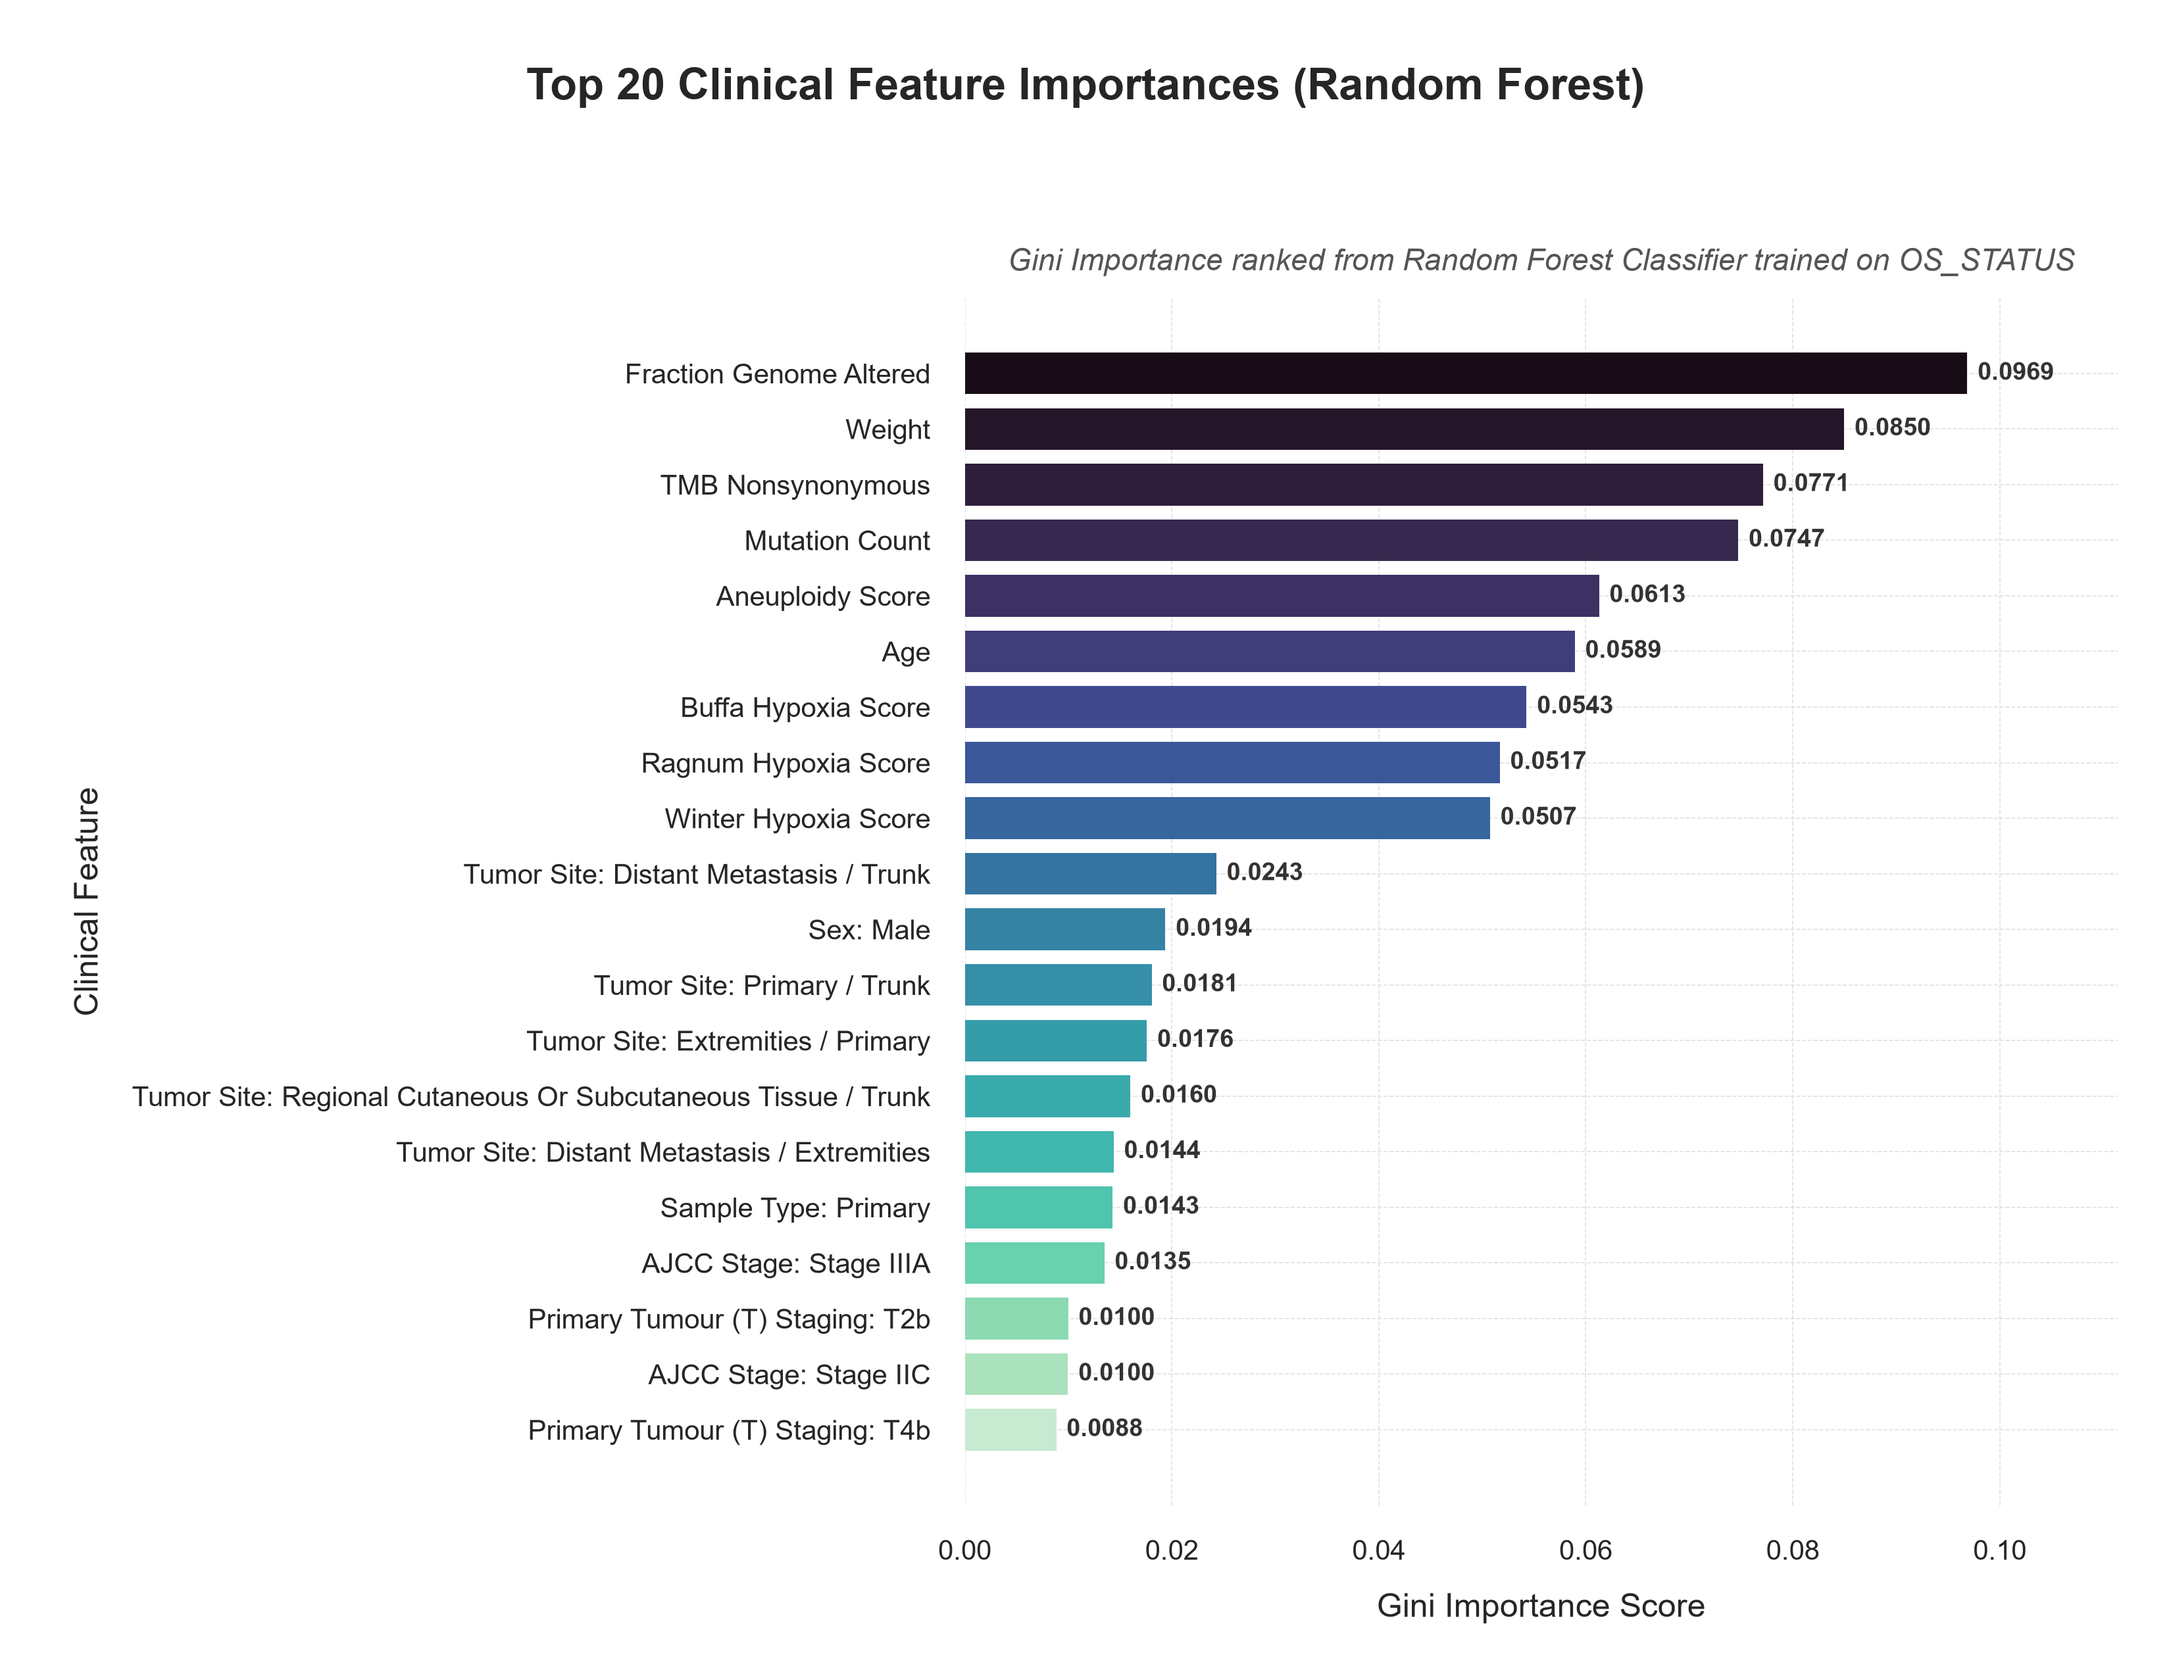
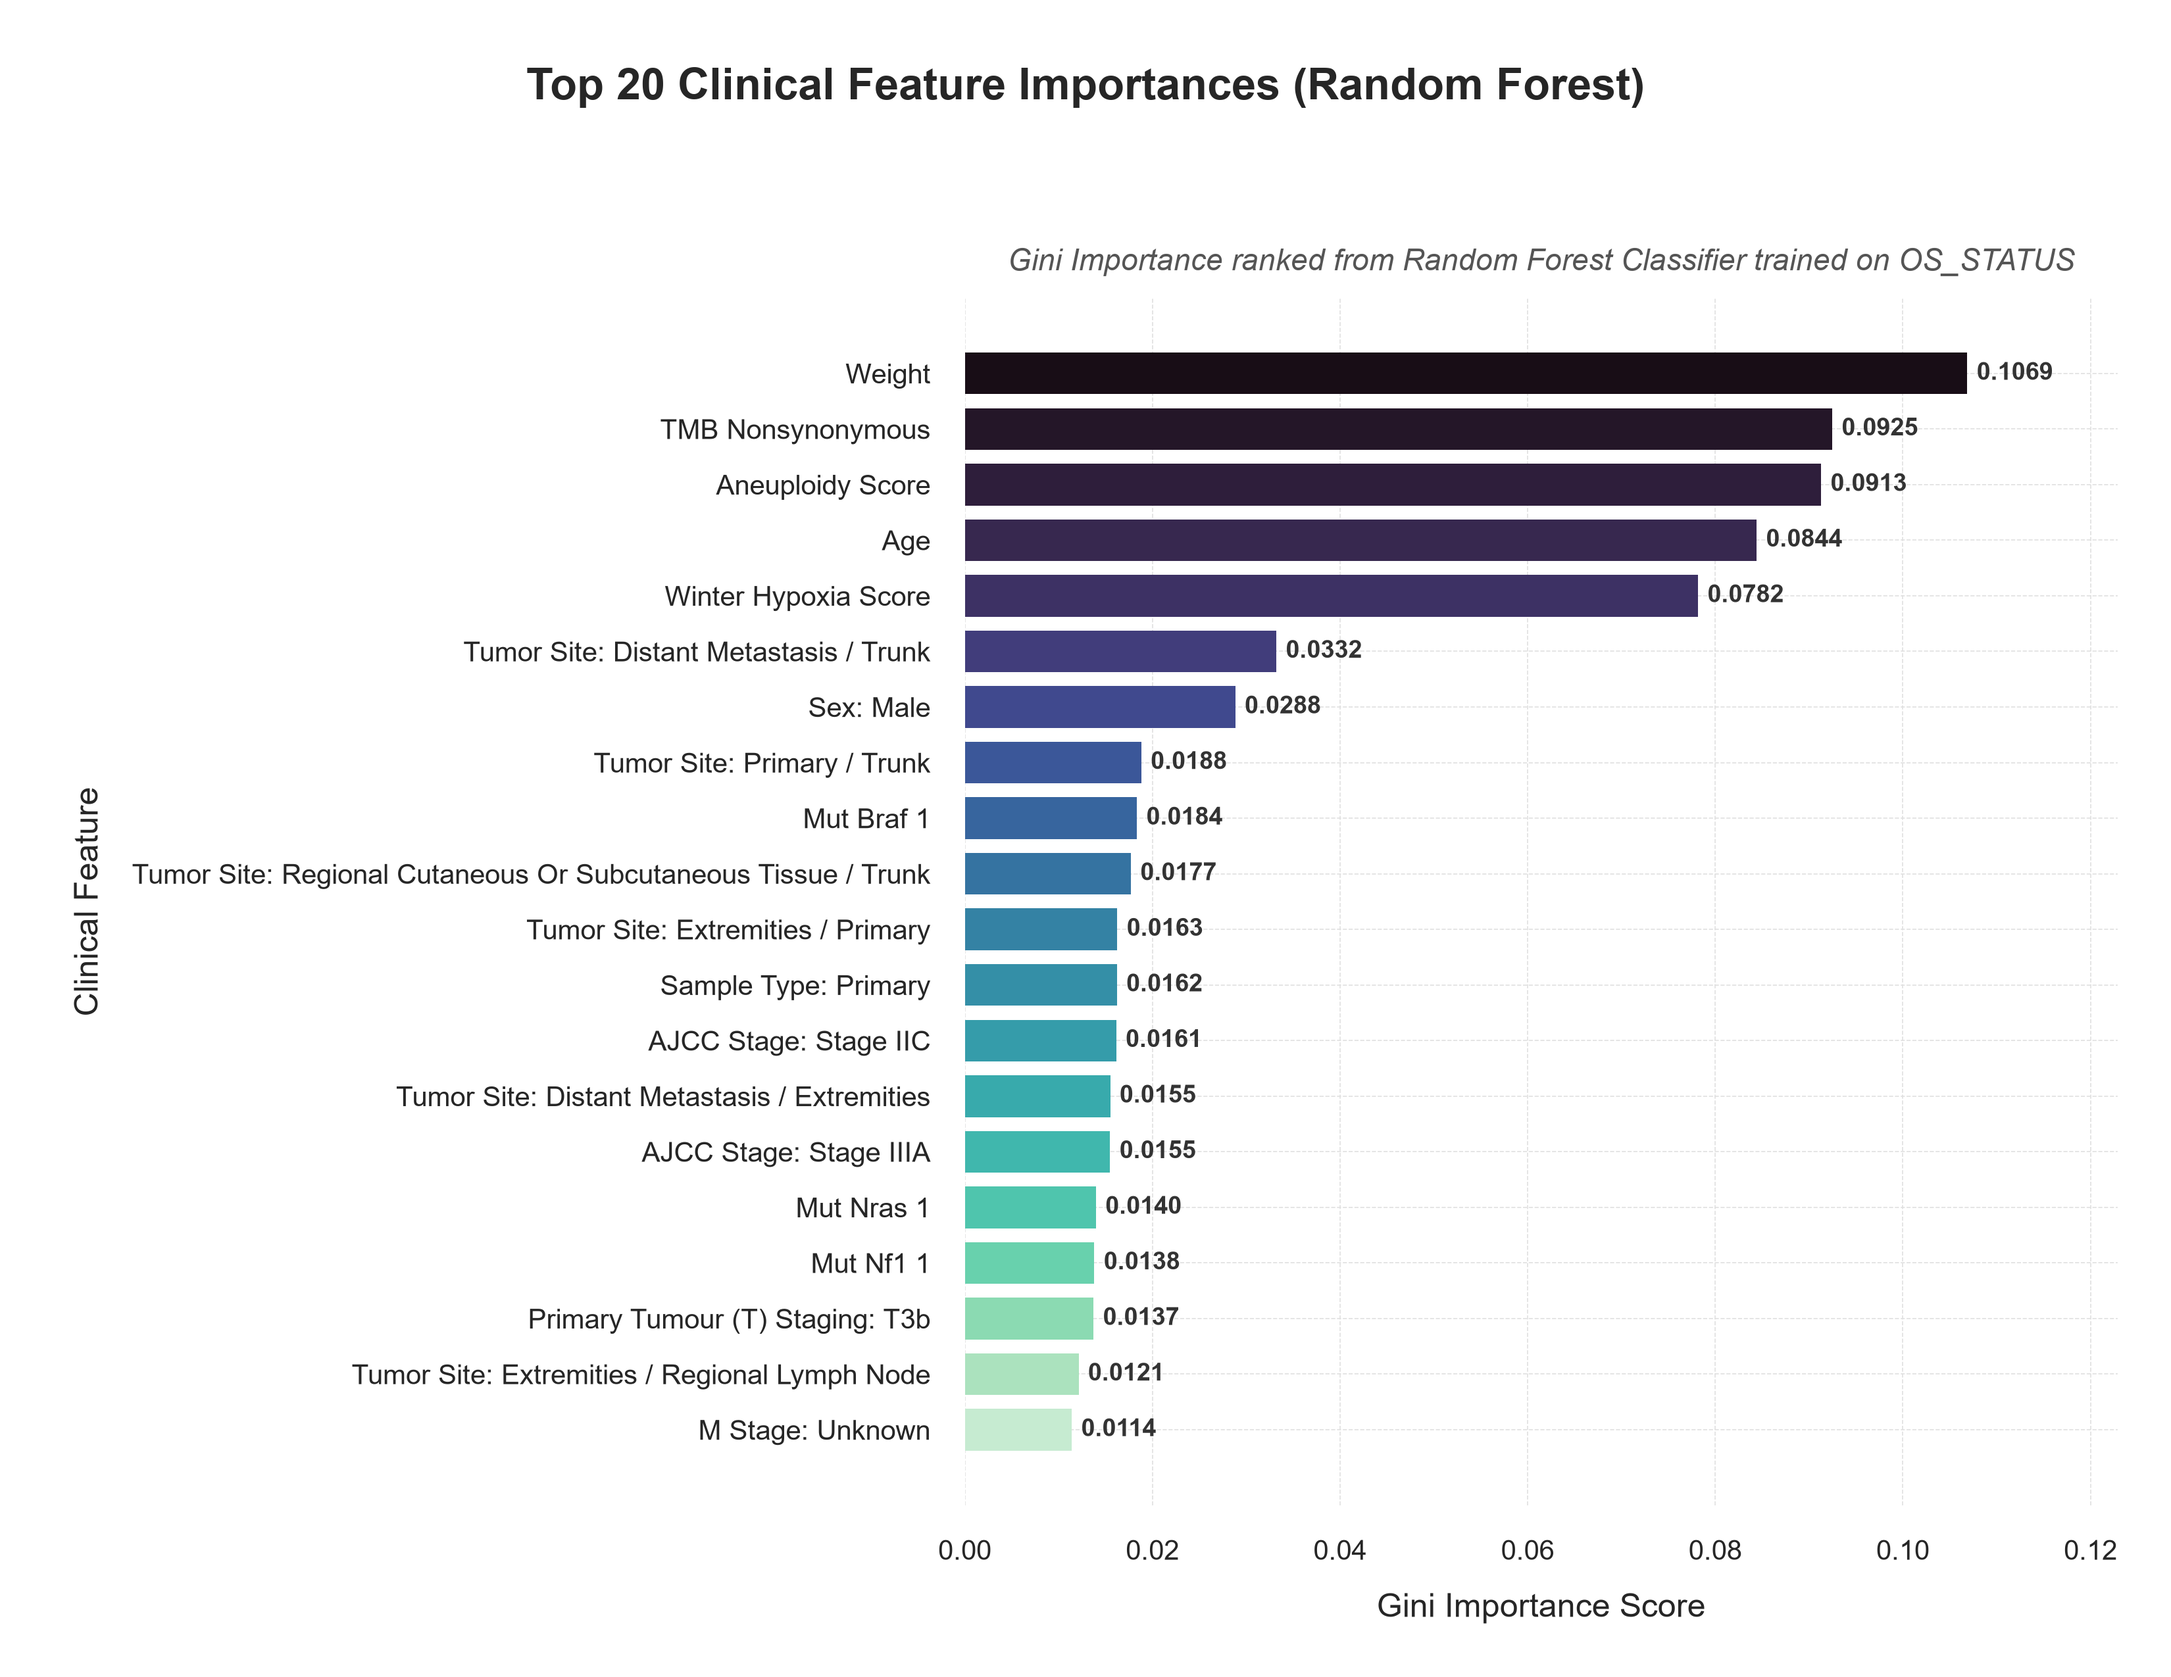
fix(q1-response-predictor): update clinical feature selection script and rerun Gini rankings
- Filter out missing OS_STATUS targets before fitting Random Forest classifier
- Route generated plot outputs to plots/clinical subdomain
- Regenerate clinical_feature_selection_results.md and updated Gini importance plots

diff --git a/q1-response-predictor/scripts/clinical_analysis/run_clinical_feature_selection.py b/q1-response-predictor/scripts/clinical_analysis/run_clinical_feature_selection.py
@@ -20,7 +20,7 @@ DATA_DIR = BASE_DIR / "data"
 CLINICAL_FILE = DATA_DIR / "processed/skcm_tcga_pan_can_atlas_2018/clin_cleaned.csv"
 REPORTS_DIR = BASE_DIR / "reports"
 REPORTS_DIR.mkdir(exist_ok=True, parents=True)
-PLOTS_DIR = BASE_DIR / "plots"
+PLOTS_DIR = BASE_DIR / "plots" / "clinical"
 PLOTS_DIR.mkdir(exist_ok=True, parents=True)
 OUTPUT_FILE = REPORTS_DIR / "clinical_feature_selection_results.md"
 
@@ -36,6 +36,9 @@ def main():
     # Load data
     df = pd.read_csv(CLINICAL_FILE)
     print(f"Loaded clinical data with shape: {df.shape}")
+    df = df.dropna(subset=['OS_STATUS'])
+    print(f"Filtered clinical data (non-null OS_STATUS) shape: {df.shape}")
+
 
     # 1. Define targets and identifiers to exclude
     target_cols = ['OS_STATUS', 'OS_MONTHS', 'PFS_STATUS', 'PFS_MONTHS', 'DSS_STATUS', 'DSS_MONTHS']
@@ -392,12 +395,12 @@ def main():
         f.write("## Method 1: Random Forest Classifier Importance\n")
         f.write("A Random Forest classifier was trained to predict **Overall Survival status (OS_STATUS)** using all clinical variables. Features are ranked by their Gini importance.\n\n")
         f.write("### Feature Importance Visualization\n")
-        f.write("![Random Forest Classifier Feature Importance](../plots/clinical_feature_importance.png)\n\n")
+        f.write("![Random Forest Classifier Feature Importance](../plots/clinical/clinical_feature_importance.png)\n\n")
 
         f.write("## Method 2: Cox Proportional Hazards Regression (Univariate)\n")
         f.write("Univariate Cox Proportional Hazards models were fitted to assess the association of each individual feature with overall survival time (`OS_MONTHS`) and survival status (`OS_STATUS`). Features are sorted by statistical significance (lowest p-value).\n\n")
         f.write("### Cox Proportional Hazards Forest Plot\n")
-        f.write("![Cox Forest Plot](../plots/cox_forest_plot.png)\n\n")
+        f.write("![Cox Forest Plot](../plots/clinical/cox_forest_plot.png)\n\n")
         
         f.write("## Key Findings & Biological Summary\n")
         

diff --git a/q1-response-predictor/reports/clinical_feature_selection_results.md b/q1-response-predictor/reports/clinical_feature_selection_results.md
@@ -3,9 +3,9 @@
 This report documents the results of feature selection run on the cleaned clinical dataset of the **TCGA-SKCM** cohort.
 
 ## Dataset Characteristics
-*   **Total samples analyzed**: 426
-*   **Original columns**: 59
-*   **Encoded feature columns size**: 79
+*   **Total samples analyzed**: 441
+*   **Original columns**: 57
+*   **Encoded feature columns size**: 78
 
 ### Excluded Columns Groupings
 *   **Identifiers and Administrative**: ['PATIENT_ID', 'SAMPLE_ID', 'ICD_10', 'ICD_O_3_HISTOLOGY', 'ICD_O_3_SITE']
@@ -28,8 +28,8 @@ Univariate Cox Proportional Hazards models were fitted to assess the association
 ![Cox Forest Plot](../plots/clinical/cox_forest_plot.png)
 
 ## Key Findings & Biological Summary
-1.  **Random Forest Top Predictor**: The feature with the highest predictive value for binary overall survival status is **`Fraction Genome Altered`**.
-2.  **Cox Regression Top Predictor**: The feature most statistically associated with survival duration is **`Primary Tumour (T) Staging: T4b`** (univariate Cox p-value = `6.63e-12`, Hazard Ratio = `3.299`).
+1.  **Random Forest Top Predictor**: The feature with the highest predictive value for binary overall survival status is **`Weight`**.
+2.  **Cox Regression Top Predictor**: The feature most statistically associated with survival duration is **`Primary Tumour (T) Staging: T4b`** (univariate Cox p-value = `2.09e-11`, Hazard Ratio = `3.190`).
 3.  **Pathology vs Sourcing**: Pathology staging features (like AJCC Stage or Primary Tumour (T) Staging dummy variables) rank highly across both models, validating the clinical value of anatomical staging.
 4.  **TMB & Hypoxia**: Quantitative metrics (e.g. `TMB_NONSYNONYMOUS` or hypoxia scores) are highly ranked, highlighting the coupling between genomic mutations/tumor microenvironment stress and overall survival outcomes.
 5.  **Sample Type & Primary Disease**: Primary tumor samples (`SAMPLE_TYPE_Primary`) show significantly higher hazard ratios (HR = `3.34`, univariate Cox p-value = `3.50e-08`) compared to metastatic samples in this cohort, representing a distinct risk profile.
